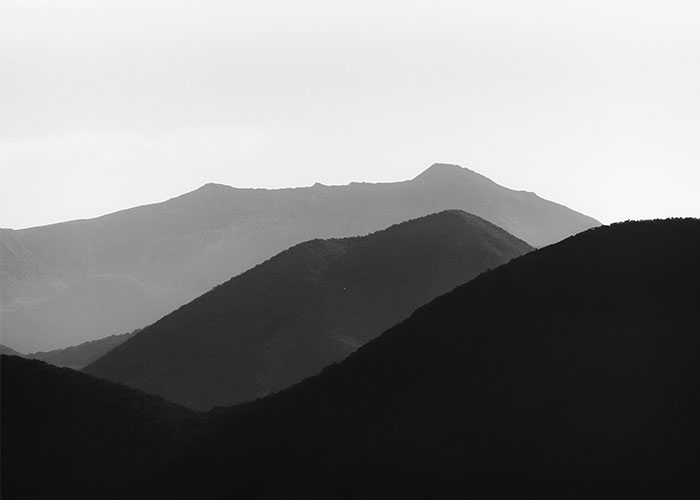
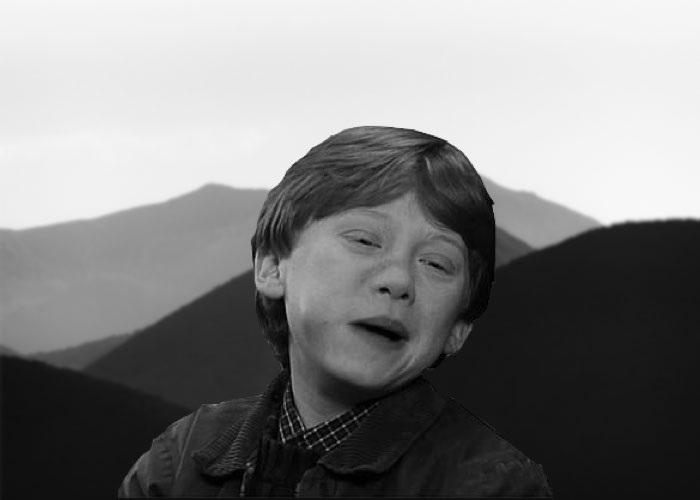
Updates

diff --git a/index.html b/index.html
@@ -34,10 +34,10 @@
       <div class="collapse navbar-collapse" id="navbarResponsive">
         <ul class="navbar-nav ml-auto">
           <li class="nav-item">
-            <a class="nav-link js-scroll-trigger" href="#about">About</a>
+            <a class="nav-link js-scroll-trigger" href="#about">About us</a>
           </li>
           <li class="nav-item">
-            <a class="nav-link js-scroll-trigger" href="#projects">Testimonials</a>
+            <a class="nav-link js-scroll-trigger" href="#projects">More info</a>
           </li>
           <li class="nav-item">
             <a class="nav-link js-scroll-trigger" href="#signup">Contact</a>
@@ -52,7 +52,7 @@
     <div class="container d-flex h-100 align-items-center">
       <div class="mx-auto text-center">
         <h1 class="mx-auto my-0 text-uppercase">Sickleback</h1>
-        <h2 class="text-white-50 mx-auto mt-2 mb-5">Ottawa's fiercest Harry Potter trivia team.</h2>
+        <h2 class="text-white-50 mx-auto mt-2 mb-5">Ottawa's fourth best Harry Potter trivia team.</h2>
       </div>
     </div>
   </header>
@@ -63,10 +63,10 @@
       <div class="row">
         <div class="col-lg-8 mx-auto">
           <h2 class="text-white mb-4">We're basically all Ravenclaws</h2>
-          <p class="text-white-50">I have yet to come up with a good backstory / 'about' section for our team. This is sorta where it would go I think.</p>
+          <p class="text-white-50" style="margin-bottom: 3rem">Just don't go asking us questions about historical dates.</p>
         </div>
       </div>
-      <img src="img/ipad.png" class="img-fluid" alt="">
+      <img src="img/hermione-cropped-bw.png" class="img-fluid" alt="" style="max-width: 40%;">
     </div>
   </section>
 
@@ -74,41 +74,19 @@
   <section id="projects" class="projects-section bg-light">
     <div class="container">
 
-      <!-- Featured Testimonial Row -->
-      <div class="row align-items-center no-gutters mb-4 mb-lg-5">
-        <div class="col-xl-8 col-lg-7">
-          <img class="img-fluid mb-3 mb-lg-0" src="img/bg-masthead.jpg" alt="">
+      <div class="row justify-content-center no-gutters">
+        <div class="col-lg-6">
+          <img class="img-fluid" src="img/team-bw.jpg" alt="">
         </div>
-        <div class="col-xl-4 col-lg-5">
-          <div class="featured-text text-center text-lg-left">
-            <p class="text-black-50 mb-0">They're really, quite good! I could learn a thing or two from them.</p>
-            <h4> - Hermione Granger</h4>
-          </div>
-        </div>
-      </div>
-
-      <!-- Featured Testimonial Row -->
-      <div class="row align-items-center no-gutters mb-4 mb-lg-5">
-        <div class="col-xl-4 col-lg-5">
-          <div class="featured-text text-center text-lg-left">
-            <p class="text-black-50 mb-0">Brilliant!</p>
-            <h4> - Harry Potter</h4>
-          </div>
-        </div>
-        <div class="col-xl-8 col-lg-7">
-          <img class="img-fluid mb-3 mb-lg-0" src="img/bg-masthead.jpg" alt="">
-        </div>
-      </div>
-
-      <!-- Featured Testimonial Row -->
-      <div class="row align-items-center no-gutters mb-4 mb-lg-5">
-        <div class="col-xl-8 col-lg-7">
-          <img class="img-fluid mb-3 mb-lg-0" src="img/bg-masthead.jpg" alt="">
-        </div>
-        <div class="col-xl-4 col-lg-5">
-          <div class="featured-text text-center text-lg-left">
-            <p class="text-black-50 mb-0">I've seen better.</p>
-            <h4> - Ron Weasley</h4>
+        <div class="col-lg-6 order-lg-first">
+          <div class="bg-black text-center h-100 project">
+            <div class="d-flex h-100">
+              <div class="project-text w-100 my-auto text-center text-lg-right">
+                <h4 class="text-white">We're serious enough about this to have our own website.</h4>
+                <!-- <p class="mb-0 text-white-50"> - Chad Kroeger</p> -->
+                <hr class="d-none d-lg-block mb-0 mr-0">
+              </div>
+            </div>
           </div>
         </div>
       </div>
@@ -116,14 +94,14 @@
       <!-- Project One Row -->
       <div class="row justify-content-center no-gutters mb-5 mb-lg-0">
         <div class="col-lg-6">
-          <img class="img-fluid" src="img/demo-image-01.jpg" alt="">
+          <img class="img-fluid" src="img/ron-over-bw.jpg" alt="">
         </div>
         <div class="col-lg-6">
           <div class="bg-black text-center h-100 project">
             <div class="d-flex h-100">
               <div class="project-text w-100 my-auto text-center text-lg-left">
-                <h4 class="text-white"> They're really, quite good! I could learn a thing or two from them.</h4>
-                <p class="mb-0 text-white-50"> - Hermione Granger</p>
+                <h4 class="text-white">They're all a bunch of nerds</h4>
+                <p class="mb-0 text-white-50"> - Ron Weasley</p>
                 <hr class="d-none d-lg-block mb-0 ml-0">
               </div>
             </div>
@@ -140,7 +118,7 @@
           <div class="bg-black text-center h-100 project">
             <div class="d-flex h-100">
               <div class="project-text w-100 my-auto text-center text-lg-right">
-                <h4 class="text-white">I think their team name is really clever.</h4>
+                <h4 class="text-white">Look at this moving photograph</h4>
                 <p class="mb-0 text-white-50"> - Chad Kroeger</p>
                 <hr class="d-none d-lg-block mb-0 mr-0">
               </div>
@@ -231,11 +209,13 @@
   </section>
 
   <!-- Footer -->
+  
   <footer class="bg-black small text-center text-white-50">
     <div class="container">
-      Copyright &copy; Sickleback 2020
+      <!-- Copyright &copy; Sickleback 2020 -->
     </div>
   </footer>
+  
 
   <!-- Bootstrap core JavaScript -->
   <script src="vendor/jquery/jquery.min.js"></script>

diff --git a/css/sickleback.css b/css/sickleback.css
@@ -4,6 +4,10 @@
  * Licensed under MIT (https://github.com/BlackrockDigital/startbootstrap-grayscale/blob/master/LICENSE)
  */
 
+body {
+  cursor: url('../img/harry-bw-sm.png'), auto;
+}
+
 #mainNav {
   min-height: 56px;
   background-color: #fff;
@@ -53,6 +57,7 @@
     transition: none;
     padding: 2rem 1.5rem;
     color: rgba(255, 255, 255, 0.5);
+    cursor: url('../img/harry-bw-sm.png'), auto;
   }
   #mainNav .nav-link:hover {
     color: rgba(255, 255, 255, 0.75);
@@ -161,7 +166,7 @@
 }
 
 .about-section {
-  padding-top: 10rem;
+  padding-top: 5rem;
   background: linear-gradient(to bottom, #161616 0%, rgba(22, 22, 22, 0.9) 75%, rgba(22, 22, 22, 0.8) 100%);
 }
 
